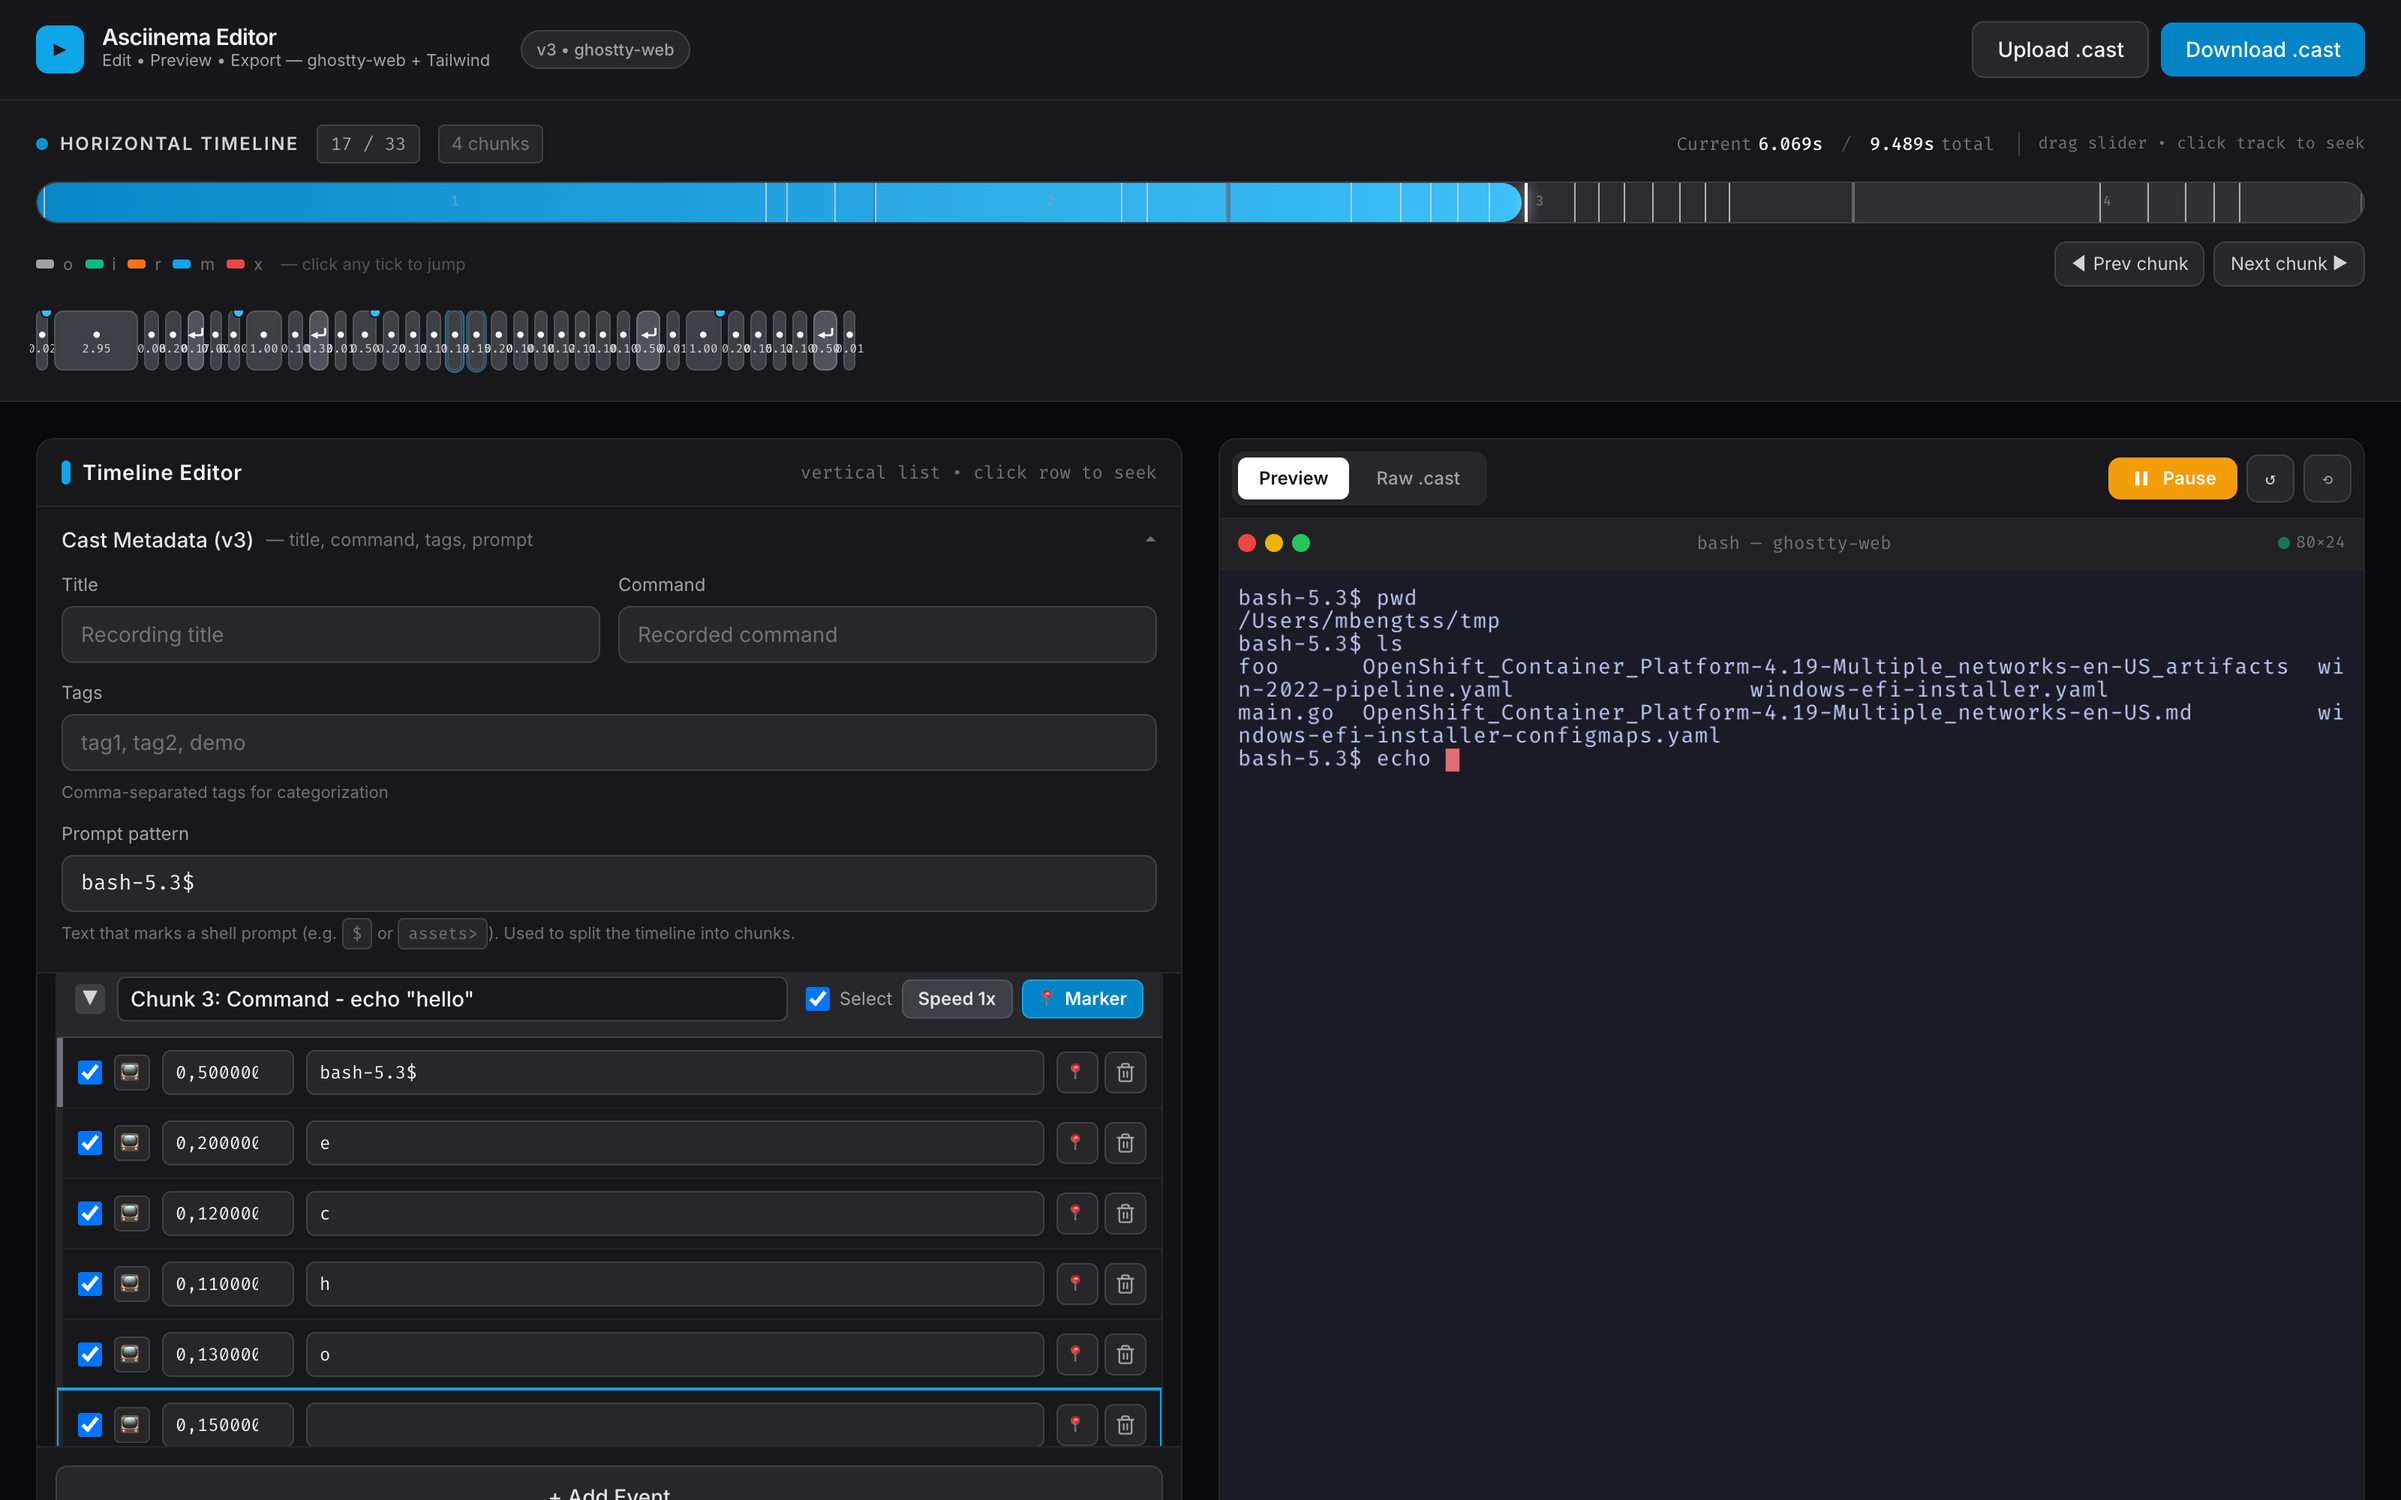
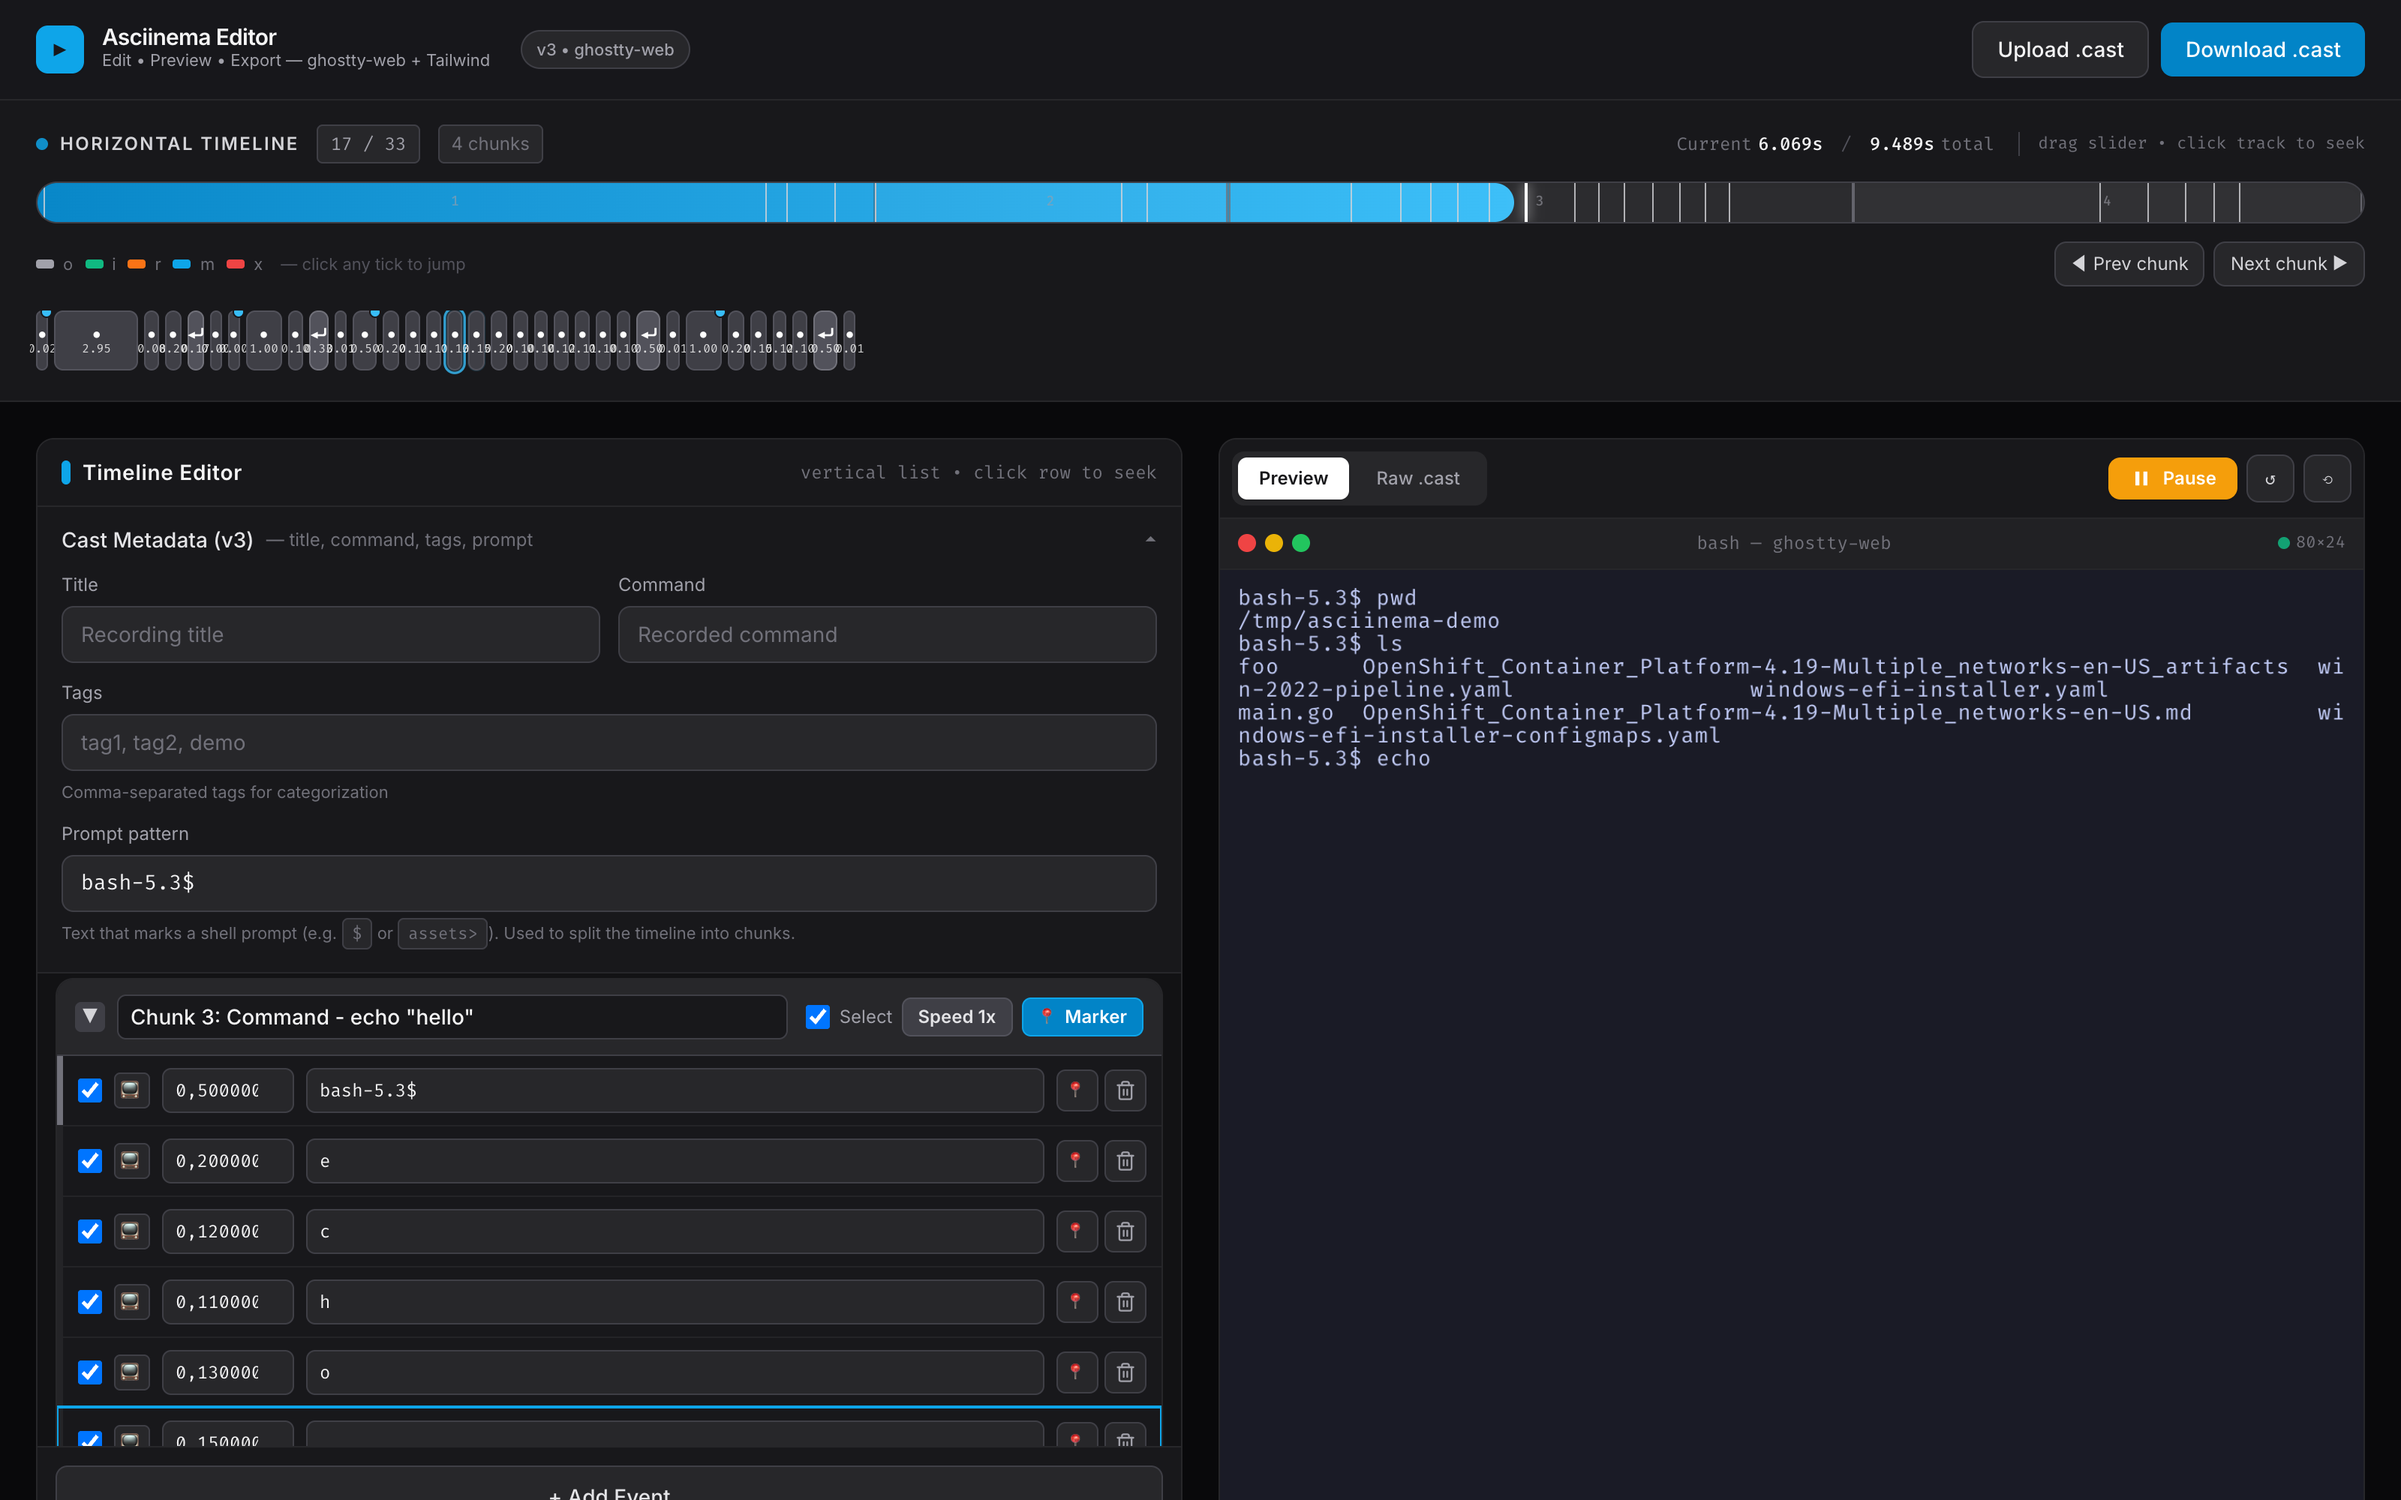
fix: remove personal path from sample cast

Changed region(s): [[0.0312, 0.651, 0.5, 0.961], [0.5312, 0.403, 0.5938, 0.434]]

diff --git a/frontend/dist/index.html b/frontend/dist/index.html
@@ -215,7 +215,7 @@ const initialRecordingData = {
     },
     events: [
         [0.023447, "o", "bash-5.3$ "], [2.946602, "o", "p"], [0.083101, "o", "w"], [0.196326, "o", "d"], [0.168636, "o", "\r\n"],
-        [0.000296, "o", "/Users/mbengtss/tmp\r\n"], [0.000357, "o", "bash-5.3$ "], [1.003615, "o", "l"], [0.101223, "o", "s"], [0.326011, "o", "\r\n"],
+        [0.000296, "o", "/tmp/asciinema-demo\r\n"], [0.000357, "o", "bash-5.3$ "], [1.003615, "o", "l"], [0.101223, "o", "s"], [0.326011, "o", "\r\n"],
         [0.0098, "o", "foo\t OpenShift_Container_Platform-4.19-Multiple_networks-en-US_artifacts  win-2022-pipeline.yaml\t\t     windows-efi-installer.yaml\r\nmain.go  OpenShift_Container_Platform-4.19-Multiple_networks-en-US.md\t      windows-efi-installer-configmaps.yaml\r\n"],
         [0.5, "o", "bash-5.3$ "],[0.2, "o", "e"], [0.12, "o", "c"], [0.11, "o", "h"], [0.13, "o", "o"], [0.15, "o", " "],[0.2, "o", "\""], [0.1, "o", "h"], [0.1, "o", "e"], [0.12, "o", "l"], [0.11, "o", "l"], [0.1, "o", "o"], [0.1, "o", "\""],[0.5, "o", "\r\n"],[0.01, "o", "hello\r\n"],[1.0, "o", "bash-5.3$ "],[0.2, "o", "e"], [0.15, "o", "x"], [0.12, "o", "i"], [0.1, "o", "t"],[0.5, "o", "\r\n"],[0.01, "o", "exit\r\n"]
     ]

diff --git a/index.html b/index.html
@@ -215,7 +215,7 @@ const initialRecordingData = {
     },
     events: [
         [0.023447, "o", "bash-5.3$ "], [2.946602, "o", "p"], [0.083101, "o", "w"], [0.196326, "o", "d"], [0.168636, "o", "\r\n"],
-        [0.000296, "o", "/Users/mbengtss/tmp\r\n"], [0.000357, "o", "bash-5.3$ "], [1.003615, "o", "l"], [0.101223, "o", "s"], [0.326011, "o", "\r\n"],
+        [0.000296, "o", "/tmp/asciinema-demo\r\n"], [0.000357, "o", "bash-5.3$ "], [1.003615, "o", "l"], [0.101223, "o", "s"], [0.326011, "o", "\r\n"],
         [0.0098, "o", "foo\t OpenShift_Container_Platform-4.19-Multiple_networks-en-US_artifacts  win-2022-pipeline.yaml\t\t     windows-efi-installer.yaml\r\nmain.go  OpenShift_Container_Platform-4.19-Multiple_networks-en-US.md\t      windows-efi-installer-configmaps.yaml\r\n"],
         [0.5, "o", "bash-5.3$ "],[0.2, "o", "e"], [0.12, "o", "c"], [0.11, "o", "h"], [0.13, "o", "o"], [0.15, "o", " "],[0.2, "o", "\""], [0.1, "o", "h"], [0.1, "o", "e"], [0.12, "o", "l"], [0.11, "o", "l"], [0.1, "o", "o"], [0.1, "o", "\""],[0.5, "o", "\r\n"],[0.01, "o", "hello\r\n"],[1.0, "o", "bash-5.3$ "],[0.2, "o", "e"], [0.15, "o", "x"], [0.12, "o", "i"], [0.1, "o", "t"],[0.5, "o", "\r\n"],[0.01, "o", "exit\r\n"]
     ]
